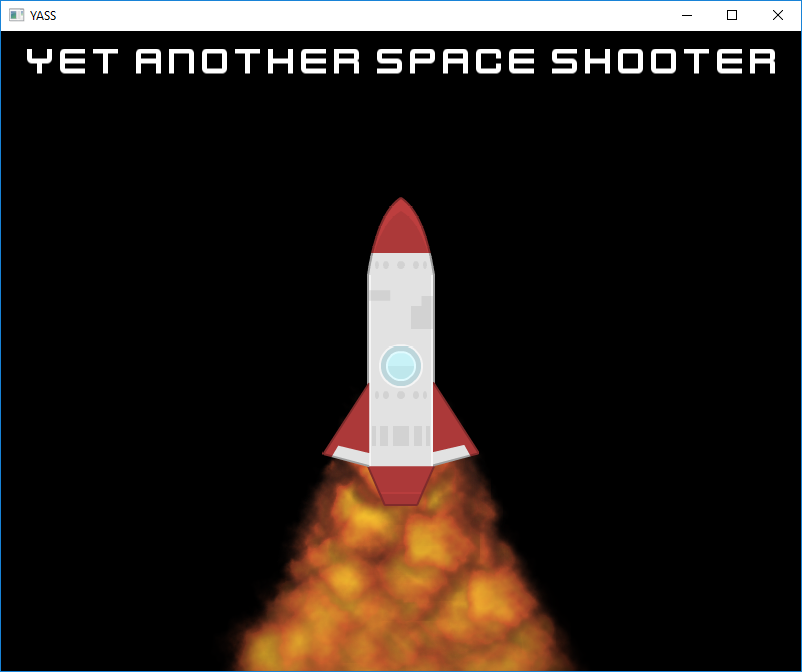
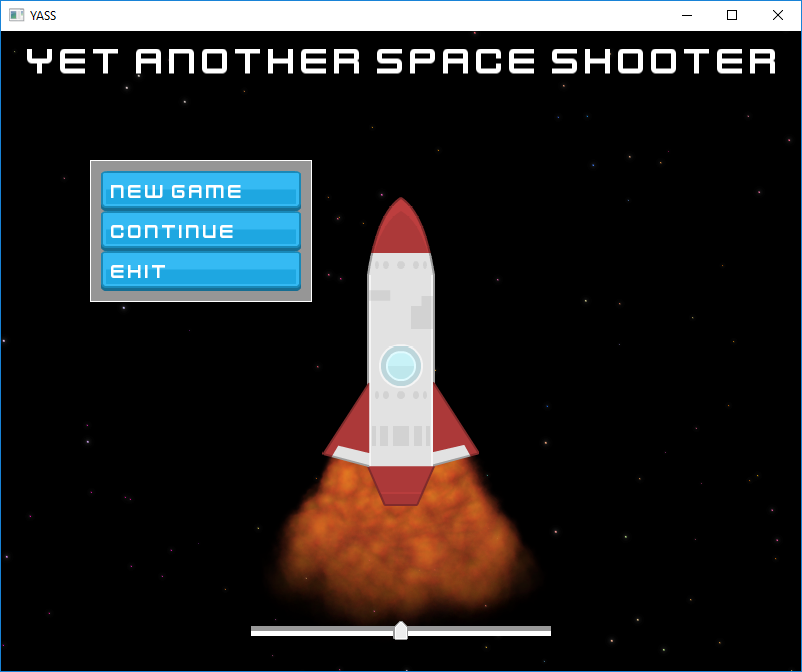
Implement slider and update project photo.

Changed region(s): [[0.2805, 0.6562, 0.717, 1.0], [0.0935, 0.2188, 0.4052, 0.4688]]

diff --git a/YASS/Slider.cpp b/YASS/Slider.cpp
@@ -1,0 +1,136 @@
+#include "Slider.hpp"
+
+Slider::Slider(sf::RenderWindow & window, const SliderDefinition & def)
+	: mWindow{window}
+	, mBarSize{def.barSize}
+	, mArrowSize{def.arrowSize}
+	, mArrowOffset{def.arrowOffset}
+	, mCallback{def.callback}
+	, mBarTexture{def.barTexture}
+	, mArrowTexture{def.arrowTexture}
+	, mMoving{false}
+{
+	sf::Vector2f barSize = def.barSize;
+
+	mBarData[0].position = { 0.f, 0.f };
+	mBarData[1].position = { barSize.x, 0.f };
+	mBarData[2].position = { barSize.x, barSize.y };
+	mBarData[3].position = { 0.f, barSize.y };
+
+	if (def.barTexture != nullptr)
+	{
+		sf::Vector2f textureSize = (sf::Vector2f)def.barTexture->getSize();
+		mBarData[0].texCoords = { 0.f, 0.f };
+		mBarData[1].texCoords = { textureSize.x, 0.f };
+		mBarData[2].texCoords = { textureSize.x, textureSize.y };
+		mBarData[3].texCoords = { 0.f, textureSize.y };
+	}
+
+	sf::Vector2f arrowSize = def.arrowSize;
+
+	mArrowData[0].position = { 0.f, 0.f };
+	mArrowData[1].position = { arrowSize.x, 0.f };
+	mArrowData[2].position = { arrowSize.x, arrowSize.y };
+	mArrowData[3].position = { 0.f, arrowSize.y };
+
+	for (int i = 0; i < 4; i++) mArrowData[i].position += def.arrowOffset;
+
+	if (def.arrowTexture != nullptr)
+	{
+		sf::Vector2f textureSize = (sf::Vector2f)def.arrowTexture->getSize();
+		mArrowData[0].texCoords = { 0.f, 0.f };
+		mArrowData[1].texCoords = { textureSize.x, 0.f };
+		mArrowData[2].texCoords = { textureSize.x, textureSize.y };
+		mArrowData[3].texCoords = { 0.f, textureSize.y };
+	}
+}
+
+void Slider::handleEvent(const sf::Event & event)
+{
+	switch (event.type)
+	{
+		case sf::Event::MouseMoved:
+		{
+			if (mMoving) predictArrowPosition(float(event.mouseMove.x + getOrigin().x));
+		}
+		break;
+
+		case sf::Event::MouseButtonPressed:
+		{
+			auto mousePos = sf::Vector2f(sf::Mouse::getPosition(mWindow));
+			if (event.key.code == sf::Mouse::Left && isNearby(mousePos))
+			{
+				predictArrowPosition(mousePos.x + getOrigin().x);
+				mMoving = true;
+			}
+		}
+		break;
+
+		case sf::Event::MouseButtonReleased:
+		{
+			if (event.key.code == sf::Mouse::Left)
+				mMoving = false;
+		}
+		break;
+	}
+}
+
+void Slider::draw(sf::RenderTarget & target, sf::RenderStates states) const
+{
+	states.transform *= getTransform();
+
+	states.texture = mBarTexture;
+	target.draw(mBarData, 4, sf::Quads, states);
+
+	states.texture = mArrowTexture;
+	target.draw(mArrowData, 4, sf::Quads, states);
+}
+
+sf::FloatRect Slider::getLocalBounds() const
+{
+	return sf::FloatRect(0.f, 0.f, mBarSize.x, mBarSize.y);
+}
+
+void Slider::setValue(float value)
+{
+	setArrowPosition(value * mBarSize.x / 100.f);
+	mCallback(value);
+}
+
+bool Slider::isNearby(const sf::Vector2f & position) const
+{
+	float horizontalSensitivity = 1.01f;
+	float verticalSensitivity = 1.02f;
+	sf::FloatRect rect = getTransform().transformRect(sf::FloatRect({ 0.f, 0.f }, mBarSize));
+	return position.x > rect.left / horizontalSensitivity && 
+		position.x < (rect.left + rect.width) * horizontalSensitivity && 
+		position.y > rect.top / verticalSensitivity && 
+		position.y < (rect.top + rect.height) * verticalSensitivity;
+}
+
+void Slider::predictArrowPosition(float x)
+{
+	float left = getPosition().x;
+	float right = left + mBarSize.x;
+	float value;
+
+	if (x < left)
+		value = 0.f;
+	else if (x > right)
+		value = 100.f;
+	else
+		value = 100.f * (x - left) / (right - left);
+
+	setArrowPosition(value * mBarSize.x / 100.f);
+	mCallback(value);
+}
+
+void Slider::setArrowPosition(float x)
+{
+	mArrowData[0].position = { x, 0.f };
+	mArrowData[1].position = { x + mArrowSize.x, 0.f };
+	mArrowData[2].position = { x + mArrowSize.x, mArrowSize.y };
+	mArrowData[3].position = { x, mArrowSize.y };
+
+	for (int i = 0; i < 4; i++) mArrowData[i].position += mArrowOffset;
+}

diff --git a/YASS/Main.cpp b/YASS/Main.cpp
@@ -8,6 +8,14 @@
 #include "Button.hpp"
 #include "ParticleEmitter.hpp"
 
+#include "Slider.hpp"
+
+/* 
+What will be faster to reinitialize object at some location: constructor/destructor or simply writing to this memory?
+
+1. Roll you own string class with some helper methods like findNumber or something
+*/
+
 int main()
 {
 	sf::RenderWindow window(sf::VideoMode(800, 640), "YASS");
@@ -24,6 +32,10 @@ int main()
 	sf::Texture starBackgroundTexture;
 	sf::SoundBuffer hoverSoundBuffer;
 	sf::SoundBuffer clickSoundBuffer;
+
+	sf::Texture sliderBarTexture;
+	sf::Texture sliderArrowTexture;
+
 	sf::Music music;
 	music.openFromFile("Resources/theme.ogg");
 	music.setVolume(50.f);
@@ -51,6 +63,28 @@ int main()
 
 	if (!clickSoundBuffer.loadFromFile("Resources/click.ogg"))
 		return EXIT_FAILURE;
+
+	if (!sliderBarTexture.loadFromFile("Resources/greySliderBar.png"))
+		return EXIT_FAILURE;
+
+	if (!sliderArrowTexture.loadFromFile("Resources/greySliderArrow.png"))
+		return EXIT_FAILURE;
+
+	SliderDefinition sliderDef;
+	sliderDef.position = { 400.f, 600.f };
+	sliderDef.barSize = { 300.f, 10.f };
+	sliderDef.arrowSize = { 15.f, 20.f };
+	sliderDef.arrowOffset = { -7.5f, -5.f };
+
+	sliderDef.barTexture = &sliderBarTexture;
+	sliderDef.arrowTexture = &sliderArrowTexture;
+
+	sliderDef.callback = [&music](float volume) { music.setVolume(volume); };
+
+	Slider slider{ window, sliderDef };
+	centerOrigin(slider);
+	slider.setPosition(400.f, 600.f);
+	slider.setValue(50.f);
 
 	ButtonDefinition buttonDef;
 
@@ -144,11 +178,18 @@ int main()
 		{
 			if (event.type == sf::Event::Closed)
 				window.close();
+			else if (event.type == sf::Event::Resized)
+			{
+				/*auto view = window.getView();
+				view.setSize(float(event.size.width), float(event.size.height));
+				window.setView(view);*/
+			}
 			else
 			{
 				buttonNewGame.handleEvent(event);
 				buttonContinue.handleEvent(event);
 				buttonExit.handleEvent(event);
+				slider.handleEvent(event);
 			}
 		}
 
@@ -182,6 +223,7 @@ int main()
 		window.draw(buttonContinue);
 		window.draw(buttonExit);
 
+		window.draw(slider);
 
 		window.display();
 	}

diff --git a/YASS/Slider.hpp b/YASS/Slider.hpp
@@ -1,0 +1,48 @@
+#pragma once
+
+#include <SFML/Graphics.hpp>
+#include <functional>
+
+struct SliderDefinition
+{
+	sf::Vector2f position = { 0.f, 0.f };
+	sf::Vector2f barSize = { 200.f, 10.f };
+	sf::Vector2f arrowSize = { 15.f, 20.f };
+	sf::Vector2f arrowOffset = { 0.f, -5.f };
+
+	sf::Texture* barTexture = nullptr;
+	sf::Texture* arrowTexture = nullptr;
+
+	std::function<void(float)> callback = [](float){ return; };
+};
+
+class Slider : public sf::Drawable, public sf::Transformable
+{
+public:
+	Slider(sf::RenderWindow& window, const SliderDefinition& def);
+
+	void handleEvent(const sf::Event& event);
+	void draw(sf::RenderTarget& target, sf::RenderStates states) const override;
+	sf::FloatRect getLocalBounds() const;
+	void setValue(float value);
+
+private:
+	bool isNearby(const sf::Vector2f& position) const;
+	void predictArrowPosition(float x);
+	void setArrowPosition(float x);
+
+private:
+	sf::RenderWindow& mWindow;
+	sf::Vector2f mBarSize;
+	sf::Vector2f mArrowSize;
+	sf::Vector2f mArrowOffset;
+
+	std::function<void(float)> mCallback;
+
+	const sf::Texture* mBarTexture;
+	const sf::Texture* mArrowTexture;
+	sf::Vertex mBarData[4];
+	sf::Vertex mArrowData[4];
+
+	bool mMoving;
+};
